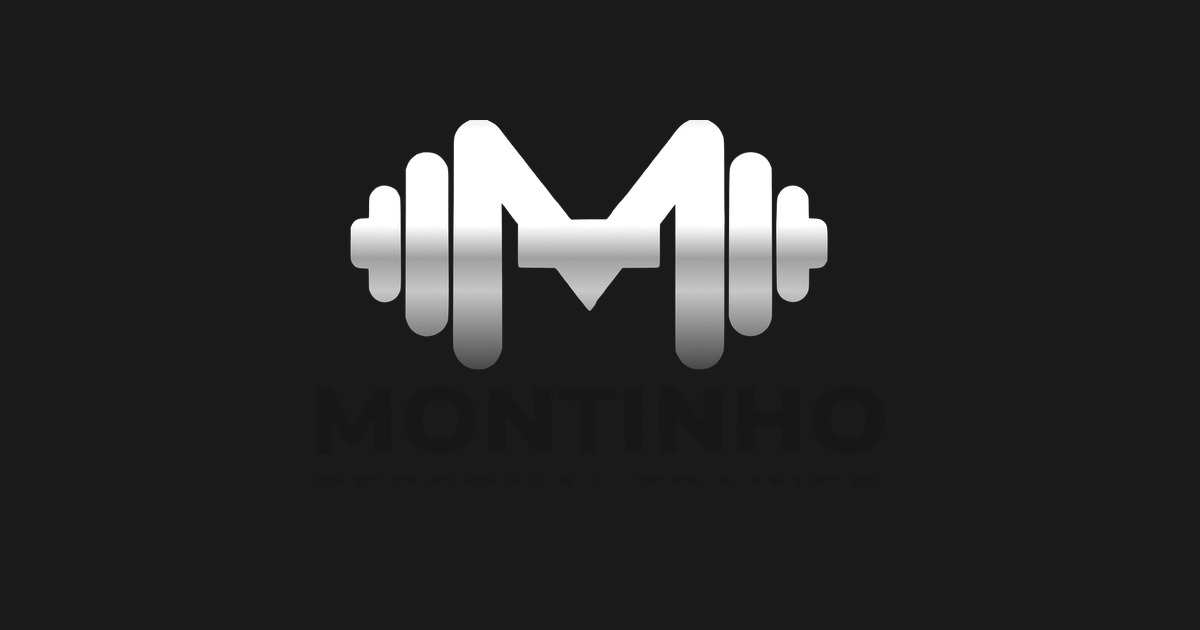
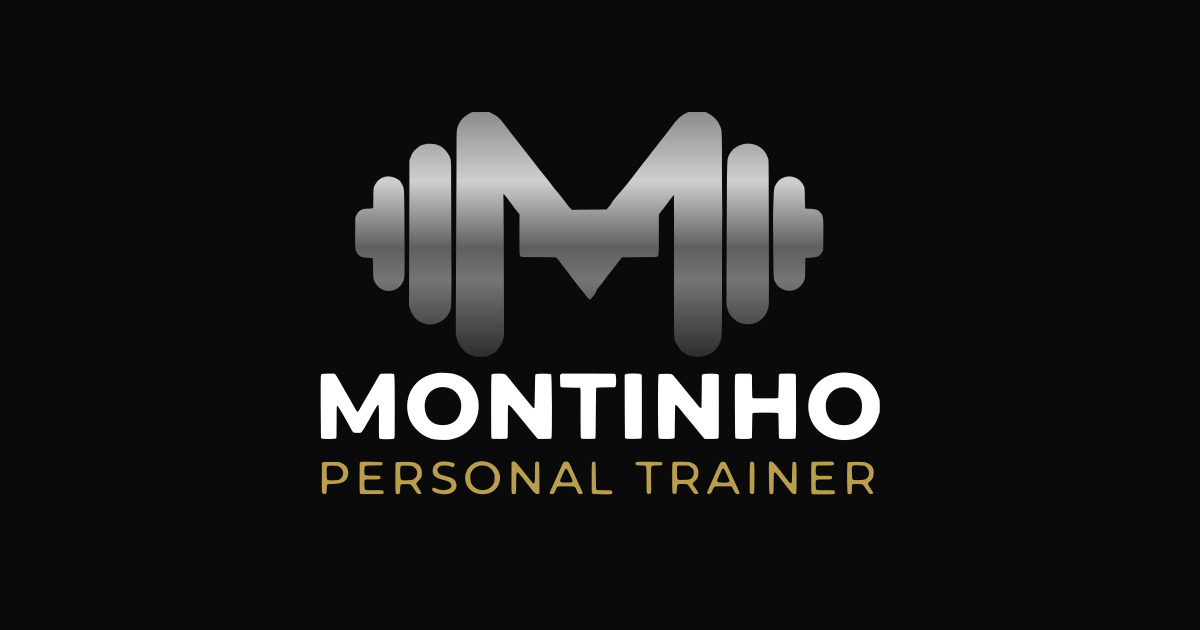
Imagem de compartilhamento: o wordmark estava invisível
A og-image.jpg tinha o "MONTINHO" em #111111 sobre fundo preto —
praticamente ilegível — e o "PERSONAL TRAINER" cortado na borda de
baixo. Ninguém percebeu por meses porque essa imagem só aparece no card
do WhatsApp e do Facebook, nunca no site.

A causa está no próprio logo.svg: o wordmark é desenhado em #111111,
que funciona no header porque o CSS aplica invert(1). Quem gerou a
og-image rasterizou o SVG direto, sem o filtro, e o texto sumiu no
fundo.

Agora um script gera a imagem a partir do mesmo logo.svg, recolorindo os
dois grupos do wordmark: nome em branco, descritor em dourado #BA9E50,
que é a hierarquia da marca. O wordmark continua sendo a letra original
— aproximar com uma fonte instalada no servidor daria um texto parecido
mas não igual, e logo quase-igual é pior que logo diferente.

O script valida que o logo.svg ainda tem exatamente dois grupos com
fill="#111111" antes de recolorir. Se a logo mudar, ele falha com uma
mensagem explicando o que conferir, em vez de gerar uma imagem errada em
silêncio.

A largura da logo (560 de 1200) não é escolha estética: o WhatsApp corta
para um quadrado de 630 no preview pequeno. A 700px o wordmark perdia as
pontas nesse corte — testado gerando o recorte. A 560 cabe inteira nos
dois formatos.

A imagem serve 852 páginas: a home, as páginas fixas e os 487 artigos
que só têm infográfico SVG, já que nenhum leitor de link renderiza SVG.

Claude-Session: https://claude.ai/code/session_01TgvC2cqBeMiQAvTicJkXDR

Changed region(s): [[0.2467, 0.181, 0.74, 0.6937], [0.2467, 0.7238, 0.74, 0.7841]]

diff --git a/scripts/gerar-og-image.ts b/scripts/gerar-og-image.ts
@@ -1,0 +1,98 @@
+/**
+ * Gera a imagem de compartilhamento padrão (public/og-image.jpg).
+ *
+ * Por que existe como script, e não como um arquivo solto: a versão anterior
+ * tinha o "MONTINHO" em #111111 sobre fundo preto — praticamente invisível —
+ * e o "PERSONAL TRAINER" cortado na borda de baixo. Ninguém percebeu por meses
+ * porque essa imagem só aparece no card do WhatsApp e do Facebook, nunca no
+ * site. Com o script, refazer a imagem é reproduzível e a razão de cada
+ * escolha fica registrada.
+ *
+ * Fonte da verdade é o próprio `public/logo.svg`: o wordmark continua sendo a
+ * letra original da marca, apenas recolorido. Aproximar com uma fonte
+ * instalada no servidor daria um texto parecido, mas não igual — e logo
+ * quase-igual é pior que logo diferente.
+ *
+ *   npx tsx scripts/gerar-og-image.ts
+ */
+
+import * as fs from "fs";
+import sharp from "sharp";
+
+const LARGURA = 1200;
+const ALTURA = 630;
+
+/** Mesmo preto do site. */
+const FUNDO = "#0a0a0a";
+/** Dourado da marca, usado só na linha de baixo. */
+const OURO = "#BA9E50";
+
+const ORIGEM = "public/logo.svg";
+const DESTINO = "public/og-image.jpg";
+
+async function main() {
+  const svg = fs.readFileSync(ORIGEM, "utf8");
+
+  /**
+   * O wordmark são dois grupos com fill="#111111": "MONTINHO" em cima e
+   * "PERSONAL TRAINER" embaixo. Recolorir na ordem em que aparecem mantém a
+   * hierarquia da marca — nome em branco, descritor em dourado.
+   */
+  const ocorrencias = (svg.match(/fill="#111111"/g) ?? []).length;
+  if (ocorrencias !== 2) {
+    throw new Error(
+      `logo.svg mudou: esperava 2 grupos com fill="#111111" (o wordmark), achei ${ocorrencias}. ` +
+        `Confira quais grupos formam o texto antes de recolorir.`
+    );
+  }
+
+  let i = 0;
+  const svgColorido = svg.replace(/fill="#111111"/g, () =>
+    i++ === 0 ? `fill="#FFFFFF"` : `fill="${OURO}"`
+  );
+
+  /**
+   * Densidade alta: o SVG é pequeno (469x321) e vai ser ampliado bastante.
+   *
+   * A largura não é escolha estética, é margem de segurança. O WhatsApp corta
+   * para um quadrado (630x630) no preview pequeno, e vários leitores recortam
+   * as bordas. A 700px o wordmark perdia as pontas nesse corte — testado. A
+   * 560 a marca cabe inteira mesmo no quadrado, ainda com folga lateral.
+   */
+  const LARGURA_LOGO = 560;
+  const logo = await sharp(Buffer.from(svgColorido), { density: 600 })
+    .resize({ width: LARGURA_LOGO, fit: "inside" })
+    .png()
+    .toBuffer();
+
+  const { height: alturaLogo = 0 } = await sharp(logo).metadata();
+
+  await sharp({
+    create: {
+      width: LARGURA,
+      height: ALTURA,
+      channels: 3,
+      background: FUNDO,
+    },
+  })
+    .composite([
+      {
+        input: logo,
+        // Centralizado, com um leve deslocamento para cima: a logo tem mais
+        // massa visual no topo (o halter), e centralizar pelo retângulo faz
+        // ela parecer baixa demais.
+        top: Math.round((ALTURA - alturaLogo) / 2) - 12,
+        left: Math.round((LARGURA - LARGURA_LOGO) / 2),
+      },
+    ])
+    .jpeg({ quality: 92, chromaSubsampling: "4:4:4" })
+    .toFile(DESTINO);
+
+  const stat = fs.statSync(DESTINO);
+  console.log(`${DESTINO} — ${LARGURA}x${ALTURA}, ${(stat.size / 1024).toFixed(0)} KB`);
+}
+
+main().catch((e) => {
+  console.error(e.message);
+  process.exit(1);
+});
